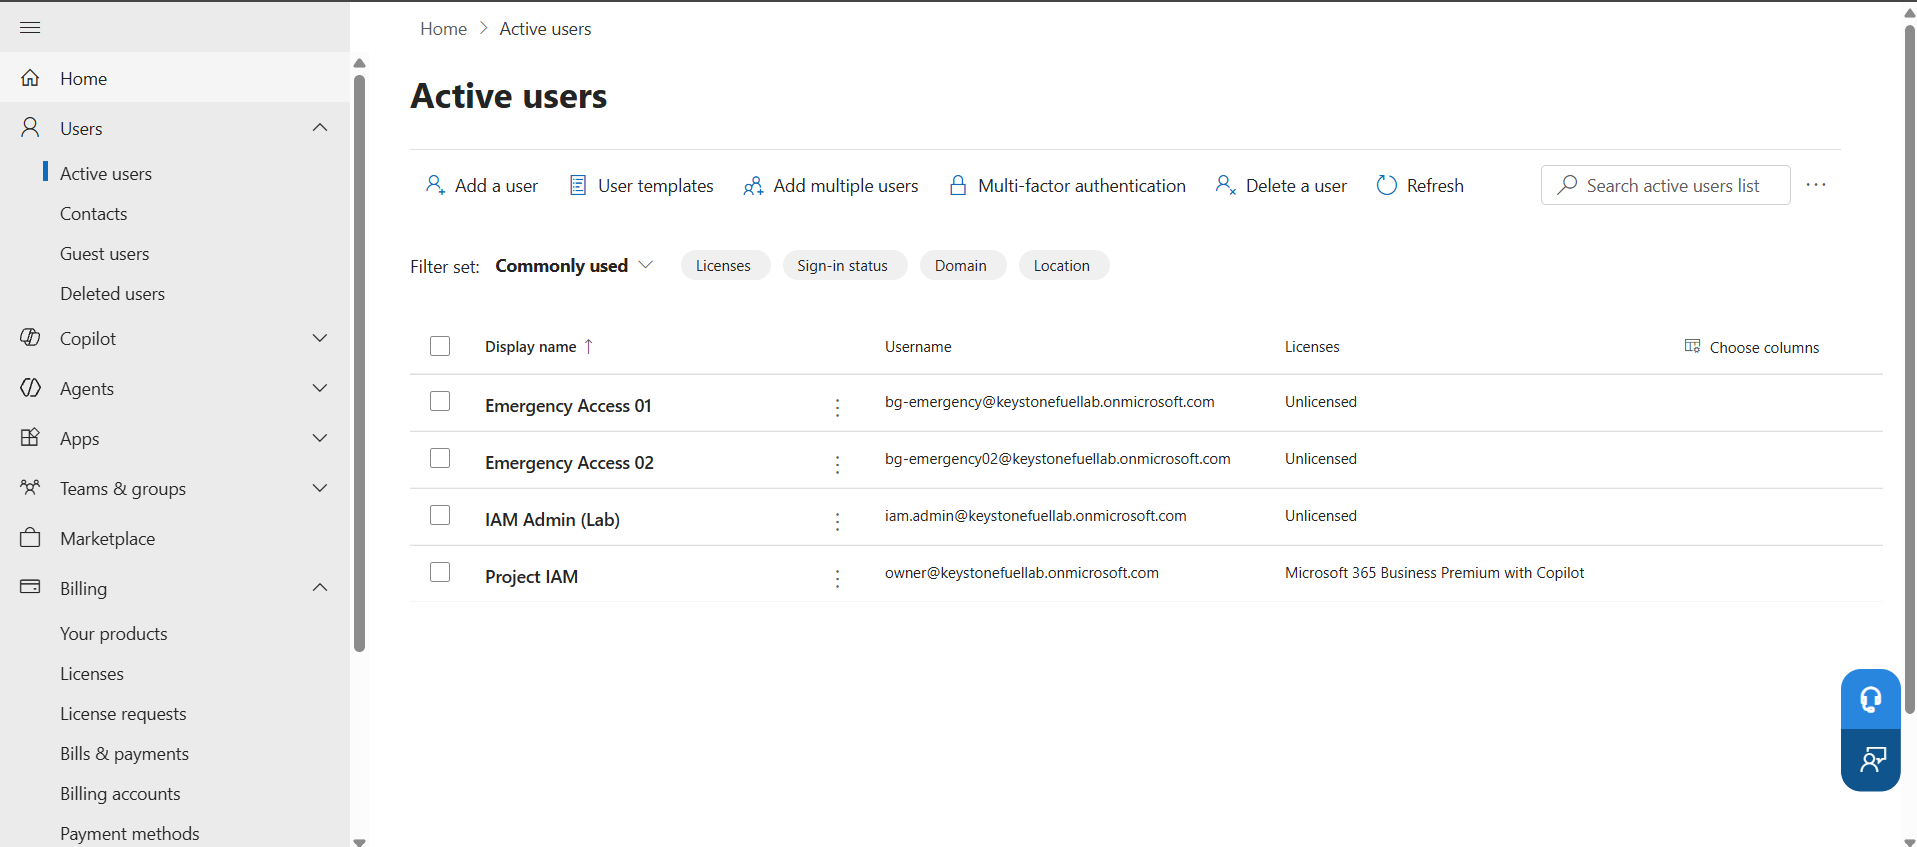
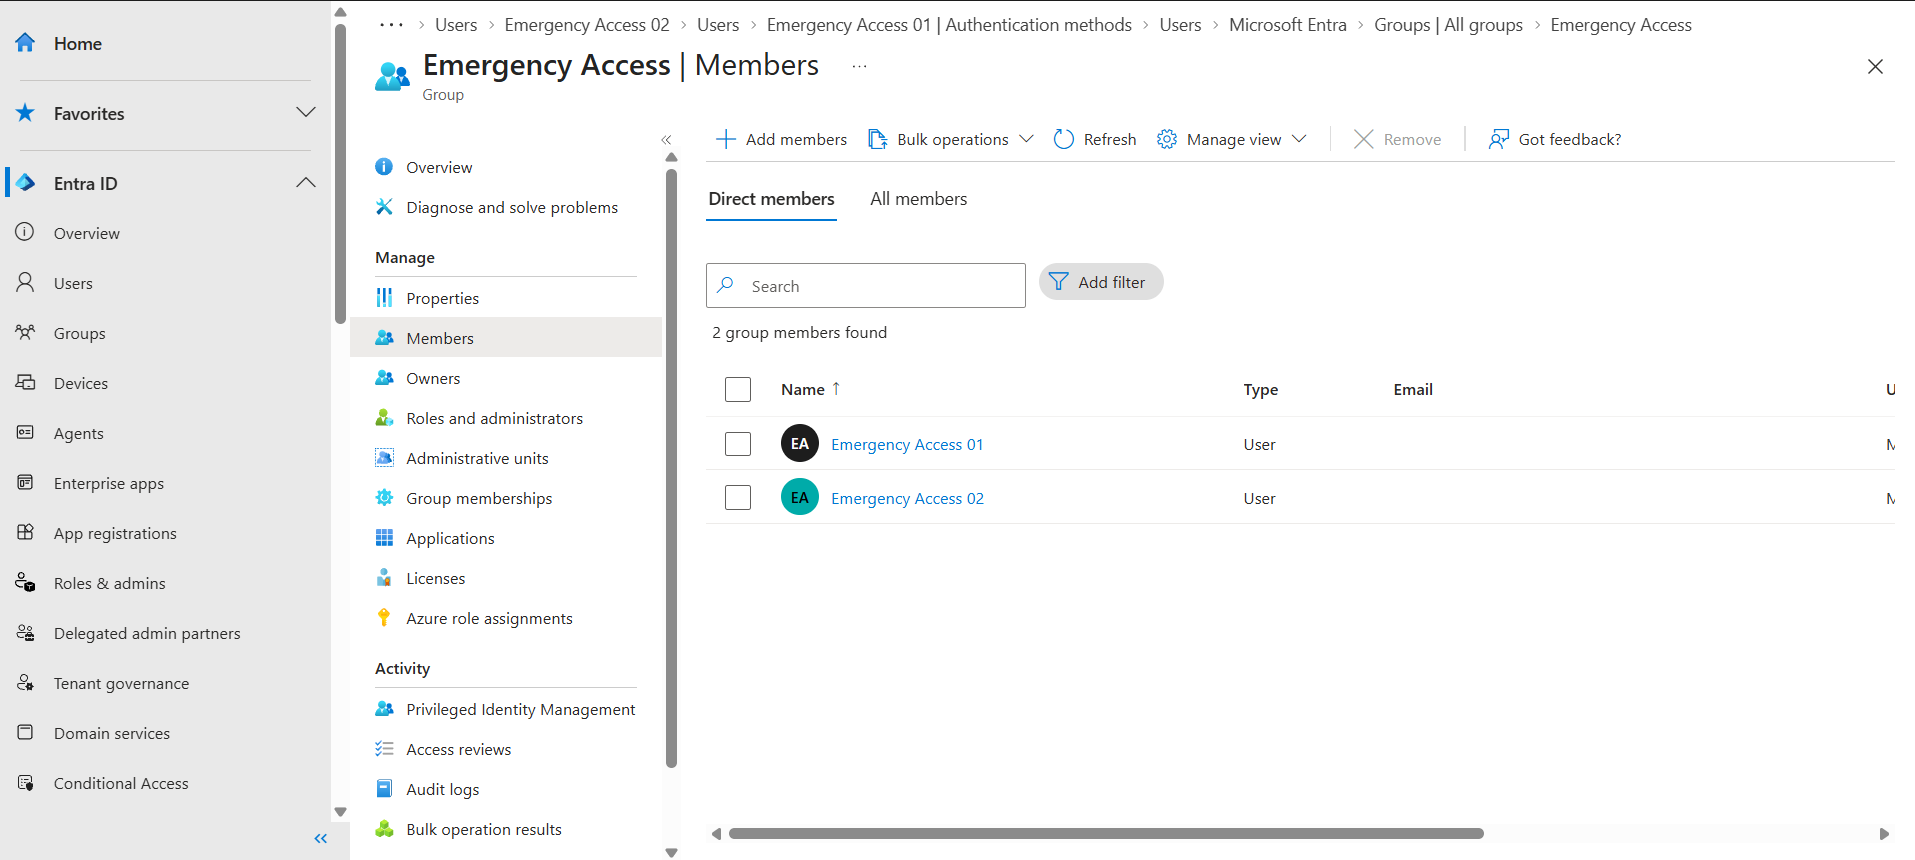
M1.1a: fix evidence screenshot, remove duplicate rows

diff --git a/LESSONS.md b/LESSONS.md
@@ -52,7 +52,6 @@ Pacing: check in before each lesson, extra-detailed steps. Resume from the first
 
 | 2026-10-14 | M2.1 | gitleaks reported 30 leaks incl. a private key | `gitleaks dir` scans all files and ignores .gitignore; findings were in .venv (third-party packages + Tornado's public test key) | Triaged: all in ignored folder, none staged → false positives. Switched to scanning only what Git tracks | Yes — triaging scanner findings |
 
-| 2026-10-20 | M1.1 | Break-glass #1 created as bg-emergency@ instead of bg-emergency01@ | Typo during manual creation; naming standard wasn't checked | Renamed UPN in Entra, updated password manager | Yes: why naming standards matter (scripts, alerts and evidence key on the name). Manual creation is error-prone, which is why the 276 users get loaded by script |
 | 2026-10-20 | M1.1 | Break-glass #1 created as bg-emergency@ instead of bg-emergency01@ | Typo during manual creation; naming standard not checked | Renamed UPN in Entra, updated password manager | Yes: naming standards matter because scripts, alerts and evidence key on the name. Manual creation is error-prone, which is why the 276 users get loaded by script |
 | 2026-10-20 | M1.1 | Business Premium trial gave 1 seat, not the 25 that guides describe | Microsoft changed the trial offer ("with Copilot", 1 license) | Moved the seat from owner to iam.admin; P1 still unlocks tenant-wide | Yes: always verify vendor terms on the live screen, not blog posts |
 
@@ -67,3 +66,5 @@ Pacing: check in before each lesson, extra-detailed steps. Resume from the first
 - **M2.3a:** Catalog = 6 birthright + 15 business + 5 add-on. Automatic when HR title proves need + low impact (Refunds); Requested when per-person justification is required (PCI CDE, privileged). Today's 100% ≠ need. Roles shrink decisions (1472→242), they don't remove review — auto-assignment is only as good as HR data. Store tools outside Store Ops = mover gap → fix in M1.3 mover workflow. Answer-key score is partly circular → say "synthetic dataset, seeded answer key."
 
 - **M2.3b:** Urgency = impact × exposure, not effort (Server-Admin on a store account = immediate even for 1 person). Findings format: found / why / action (end with fixing the cause) / named decision owner / due + reason / control. Default-to-remove when managers don't answer. Saying "no" isn't enough — offer a safe alternative (time-limited add-on without the conflicting entitlement).
+
+- **M1.1:** Tenant ≠ subscription ≠ license. Governance depends on P1: if the prerequisite lapses, governance stops even with trial days left, so track the earliest end date in the chain. Break-glass is for identity emergencies (MFA outage, bad CA policy, sole admin gone), not business emergencies. It's safe because of its controls: two accounts, sealed credentials, an alert on any sign-in, tested every 90 days.

diff --git a/docs/lab-environment.md b/docs/lab-environment.md
@@ -81,7 +81,6 @@ Before any screenshot or export goes into `evidence/`:
 - [ ] Contact email and profile pictures blurred
 - [ ] Break-glass account names are OK to show; their credentials and passkey details are not
 - [ ] No IP addresses from sign-in logs
-- [ ] `gitleaks dir . -v` returns no leaks
 - [ ] `gitleaks git --pre-commit --staged -v` returns no leaks (never `gitleaks dir .` — it scans .venv)
 ---
 
